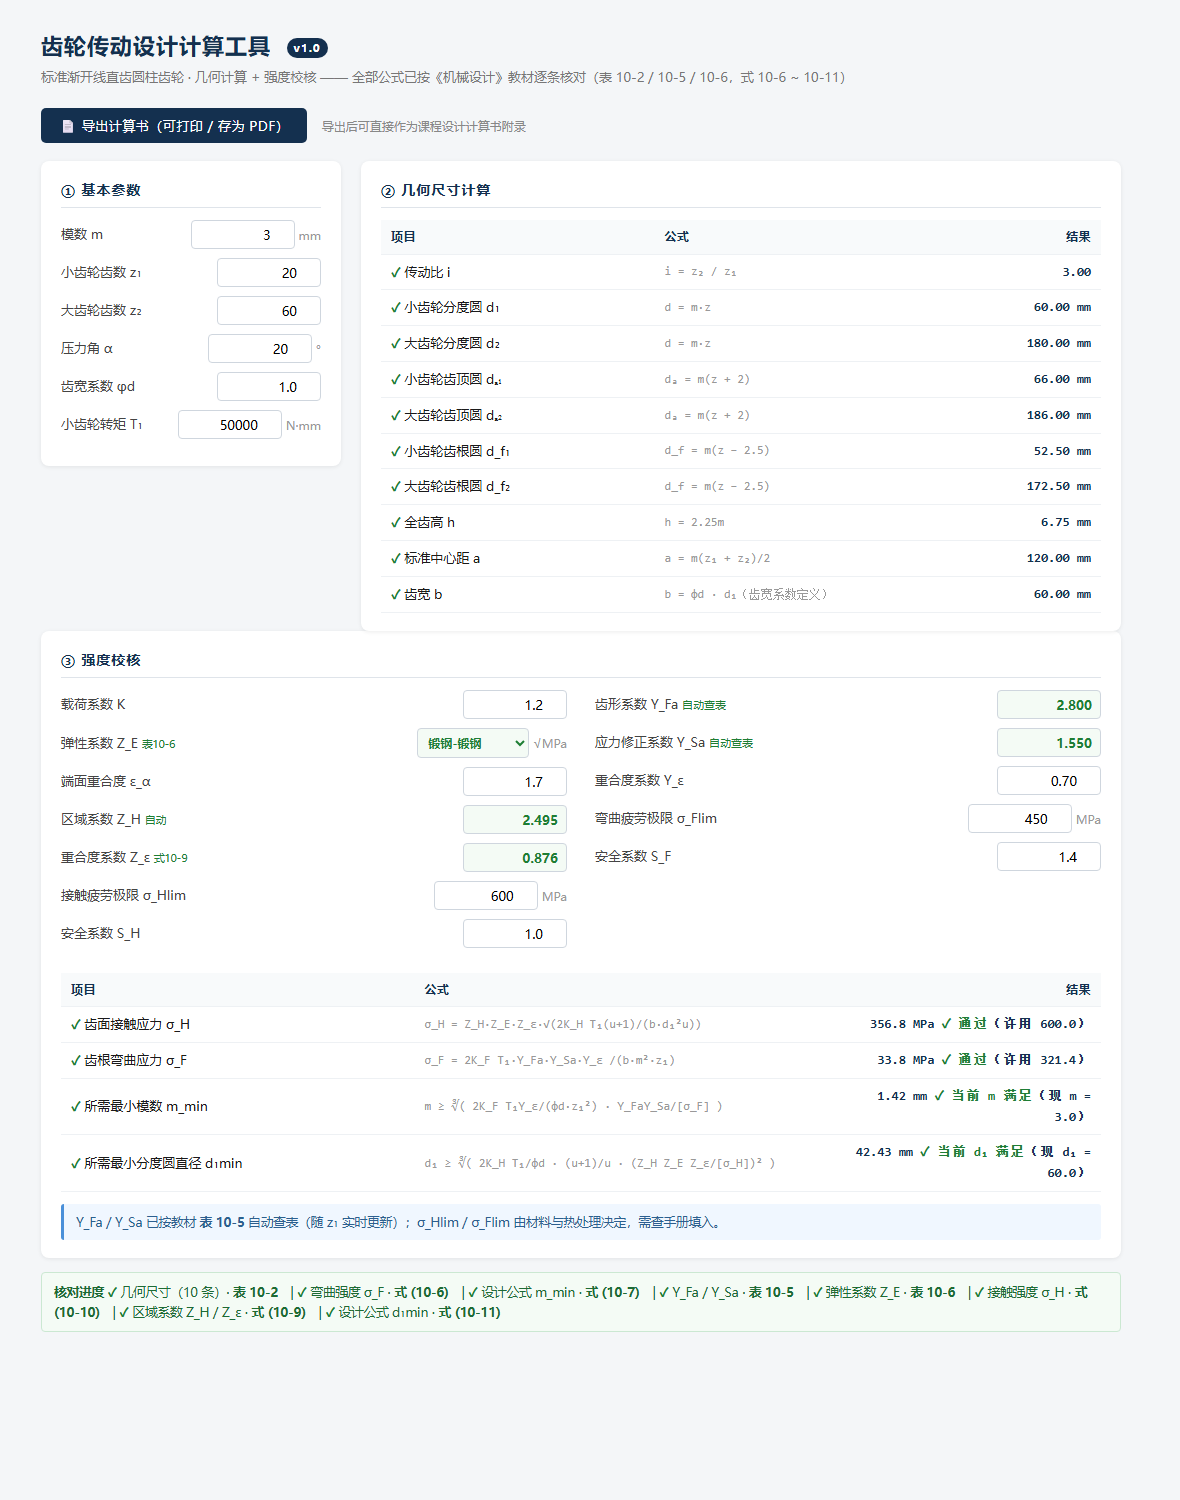
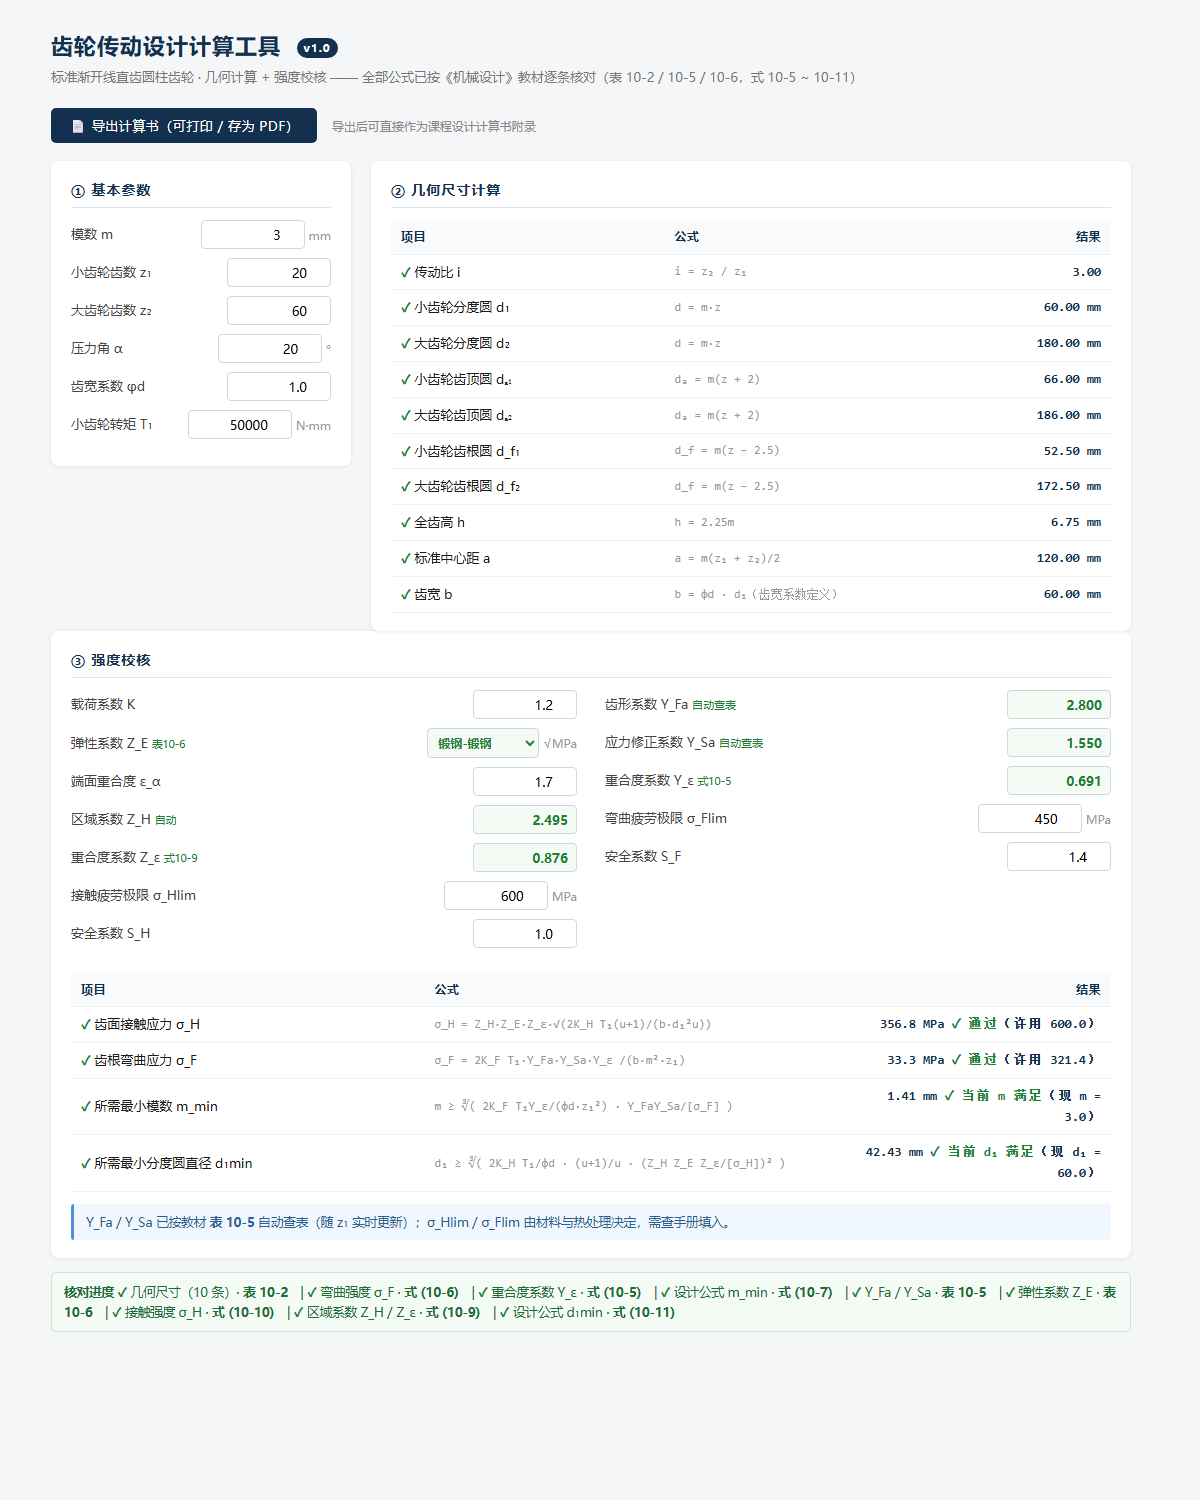
Y_ε 改为按式 (10-5) 自动计算，并修正 σ_F 公式编号
- Y_ε 由手工填入改为按教材式 (10-5) Y_ε = 0.25 + 0.75/ε_α 自动计算
  （依据《机械设计》第 11 版 P212，已逐条核对）
- 界面「核对进度」与导出计算书的依据清单：σ_F 编号修正为式 (10-6)
  （式 (10-4) 为基本式，式 (10-6) 为代入 Ft、m 后的形式，即本工具实现式）
- 默认参数下结果随之更新：σ_F 33.8→33.3 MPa、m_min 1.42→1.41 mm
  （σ_H 356.8 MPa、d₁min 42.43 mm 不受影响，二者用 Z_ε）
- 已知限制更新：Y_ε 已不再是限制，改为如实说明 ε_α 需手工填入

diff --git a/index.html b/index.html
@@ -47,7 +47,7 @@
 <div class="wrap">
 
   <h1>齿轮传动设计计算工具 <span class="badge">v1.0</span></h1>
-  <div class="sub">标准渐开线直齿圆柱齿轮 · 几何计算 + 强度校核 —— 全部公式已按《机械设计》教材逐条核对（表 10-2 / 10-5 / 10-6，式 10-6 ~ 10-11）</div>
+  <div class="sub">标准渐开线直齿圆柱齿轮 · 几何计算 + 强度校核 —— 全部公式已按《机械设计》教材逐条核对（表 10-2 / 10-5 / 10-6，式 10-5 ~ 10-11）</div>
   <div style="margin: 12px 0 18px;">
     <button onclick="exportReport()" style="cursor:pointer;background:#14304f;color:#fff;border:none;
       padding:9px 18px;border-radius:5px;font-size:13px;font-family:inherit;letter-spacing:.5px;">
@@ -103,7 +103,7 @@
       <div>
         <div class="field"><label>齿形系数 Y_Fa <span style="font-size:11px;color:#1e7e34;">自动查表</span></label><span><input id="YFa" type="text" value="2.800" readonly style="background:#f4fbf5;color:#1e7e34;font-weight:600;"></span></div>
         <div class="field"><label>应力修正系数 Y_Sa <span style="font-size:11px;color:#1e7e34;">自动查表</span></label><span><input id="YSa" type="text" value="1.550" readonly style="background:#f4fbf5;color:#1e7e34;font-weight:600;"></span></div>
-        <div class="field"><label>重合度系数 Y_ε</label><span><input id="YEps" type="number" value="0.70" step="0.01"></span></div>
+        <div class="field"><label>重合度系数 Y_ε <span style="font-size:10.5px;color:#1e7e34;">式10-5</span></label><span><input id="YEps" type="text" value="0.691" readonly style="background:#f4fbf5;color:#1e7e34;font-weight:600;"></span></div>
         <div class="field"><label>弯曲疲劳极限 σ_Flim</label><span><input id="sFlim" type="number" value="450" step="10"><span class="unit">MPa</span></span></div>
         <div class="field"><label>安全系数 S_F</label><span><input id="SF" type="number" value="1.4" step="0.05"></span></div>
       </div>
@@ -121,6 +121,7 @@
     <b>核对进度</b>
     <span class="ok">✓</span> 几何尺寸（10 条）· <b>表 10-2</b>　|
     <span class="ok">✓</span> 弯曲强度 σ_F · <b>式 (10-6)</b>　|
+    <span class="ok">✓</span> 重合度系数 Y_ε · <b>式 (10-5)</b>　|
     <span class="ok">✓</span> 设计公式 m_min · <b>式 (10-7)</b>　|
     <span class="ok">✓</span> Y_Fa / Y_Sa · <b>表 10-5</b>　|
     <span class="ok">✓</span> 弹性系数 Z_E · <b>表 10-6</b>　|
@@ -225,6 +226,7 @@ function exportReport() {
     ・表 10-2（渐开线标准直齿圆柱齿轮几何尺寸计算公式）<br>
     ・表 10-5（齿形系数 Y_Fa、应力修正系数 Y_Sa）<br>
     ・表 10-6（弹性影响系数 Z_E）<br>
+    ・式 (10-5)（弯曲强度重合度系数 Y_ε = 0.25 + 0.75/ε_α）<br>
     ・式 (10-6)（齿根弯曲疲劳强度校核）　・式 (10-7)（弯曲强度设计公式）<br>
     ・式 (10-9)（重合度系数 Z_ε = √((4−ε_α)/3)）<br>
     ・式 (10-10)（齿面接触疲劳强度校核）　・式 (10-11)（接触强度设计公式）<br>
@@ -295,7 +297,9 @@ function calc() {
   const ZEps = (epsA > 0 && epsA < 4) ? Math.sqrt((4 - epsA) / 3) : NaN;
   document.getElementById('ZH').value   = isNaN(ZH)   ? '—' : ZH.toFixed(3);
   document.getElementById('ZEps').value = isNaN(ZEps) ? '—' : ZEps.toFixed(3);
-  const YEps = num('YEps');
+  // [已核对 式(10-5)，教材 P212] 弯曲强度重合度系数 Y_ε = 0.25 + 0.75/ε_α
+  const YEps = (epsA > 0) ? (0.25 + 0.75 / epsA) : NaN;
+  document.getElementById('YEps').value = isNaN(YEps) ? '—' : YEps.toFixed(3);
   const ys  = lookupYS(z1);                 // 查 表 10-5
   const YFa = ys ? ys[0] : 0;
   const YSa = ys ? ys[1] : 0;

diff --git a/README.en.md b/README.en.md
@@ -28,7 +28,7 @@ Gear ratio `i`, pitch diameters `d₁`/`d₂`, addendum circles `dₐ`, dedendum
 | Elasticity factor `Z_E` | **Table 10-6**, dropdown (steel-steel and other pairings) |
 | Zone factor `Z_H` | **Eq. (10-9)**, computes `√(2/(cosα·sinα))` |
 | Contact ratio factor `Z_ε` | **Eq. (10-9)**, computes `√((4−ε_α)/3)` |
-| Bending contact ratio factor `Y_ε` | **Manual input** — the formula's textbook source is not yet verified, so it is deliberately not automated |
+| Bending contact ratio factor `Y_ε` | **Eq. (10-5)**, computes `0.25 + 0.75/ε_α` |
 | Contact stress `σ_H` | **Eq. (10-10)** |
 | Bending stress `σ_F` | **Eq. (10-6)** |
 | Minimum required module `m_min` | **Eq. (10-7)**, solved backwards |
@@ -43,6 +43,7 @@ A permanent checklist at the bottom of the UI maps every computed quantity to it
 ```
 ✓ Geometry (10 items)         · Table 10-2
 ✓ Bending stress σ_F          · Eq. (10-6)
+✓ Contact ratio factor Y_ε    · Eq. (10-5)
 ✓ Design formula m_min        · Eq. (10-7)
 ✓ Y_Fa / Y_Sa                 · Table 10-5
 ✓ Elasticity factor Z_E       · Table 10-6
@@ -56,17 +57,17 @@ A permanent checklist at the bottom of the UI maps every computed quantity to it
 - ***Machine Design* (机械设计), 11th ed.** — compiled by the Teaching and Research Section of Machine Theory and Machine Elements, Northwestern Polytechnical University; edited by Pu Lianggui, Chen Guoding, Wu Liyan and Ning Fangli. Higher Education Press, 2024.
   Every "Eq. (10-x)" and "Table 10-x" label in the UI refers to **Chapter 10, Gear Drives** of this book.
 - ***Theory of Machines and Mechanisms* (机械原理), 9th ed.** — compiled by the Teaching and Research Section of Machine Theory and Machine Elements, Northwestern Polytechnical University; edited by Sun Huan and Ge Wenjie. Higher Education Press, 2021.
-  Reference for gear meshing parameters such as the transverse contact ratio `ε_α`, which this tool takes as a manual input rather than computing.
+  Reference for gear meshing parameters such as the transverse contact ratio `ε_α`, which this tool takes as a manual input rather than computing. Both `Z_ε` (Eq. 10-9) and `Y_ε` (Eq. 10-5) are then derived from it.
 
 Both books are *compiled* by Northwestern Polytechnical University — hence the colloquial name "the NPU edition" — but *published* by Higher Education Press.
 
-At the default parameters (m=3, z₁=20, z₂=60, α=20°, φd=1.0, T₁=50000 N·mm), the tool's output matches hand calculation:
+At the default parameters (m=3, z₁=20, z₂=60, α=20°, φd=1.0, T₁=50000 N·mm, ε_α=1.7), the tool's output matches hand calculation:
 
 | Result | Value |
 |---|---|
 | Contact stress σ_H | 356.8 MPa |
-| Bending stress σ_F | 33.8 MPa |
-| Minimum module m_min | 1.42 mm |
+| Bending stress σ_F | 33.3 MPa |
+| Minimum module m_min | 1.41 mm |
 | Minimum pitch diameter d₁min | 42.43 mm |
 
 ## Usage
@@ -88,7 +89,7 @@ This disclosure is not a disclaimer. It is there to make one thing clear: I can 
 
 ## Known limitations
 
-- **The bending contact ratio factor `Y_ε` is still entered by hand.** The relevant formula is on a page of the textbook I have not yet verified, and I would rather leave a gap than ship a formula I have not confirmed. (The contact-side factor `Z_ε` *is* computed automatically, via Eq. (10-9).)
+- **The transverse contact ratio `ε_α` is a manual input** (default 1.7); the tool does not compute it. `ε_α` follows from addendum-circle pressure angles and other meshing parameters, which belong to *Theory of Machines and Mechanisms* — this tool implements only the geometry and strength formulas of Chapter 10 of *Machine Design*. Once entered, `Z_ε` (Eq. 10-9) and `Y_ε` (Eq. 10-5) are derived automatically.
 - Supports **standard involute spur gears only** — no helical, profile-shifted, or bevel gears.
 - `σ_Hlim` / `σ_Flim` (contact and bending fatigue limits) must be looked up in a materials handbook and entered manually.
 

diff --git a/README.md b/README.md
@@ -28,7 +28,7 @@
 | 弹性影响系数 `Z_E` | **表 10-6** 下拉选择（锻钢-锻钢等配对） |
 | 区域系数 `Z_H` | **式 (10-9)** 自动计算 `√(2/(cosα·sinα))` |
 | 重合度系数 `Z_ε` | **式 (10-9)** 自动计算 `√((4−ε_α)/3)` |
-| 弯曲强度重合度系数 `Y_ε` | **手工填入**（该公式的教材出处尚未核对到，暂不自动计算） |
+| 弯曲强度重合度系数 `Y_ε` | **式 (10-5)** 自动计算 `0.25 + 0.75/ε_α` |
 | 齿面接触应力 `σ_H` | **式 (10-10)** |
 | 齿根弯曲应力 `σ_F` | **式 (10-6)** |
 | 所需最小模数 `m_min` | **式 (10-7)** 反算 |
@@ -43,6 +43,7 @@
 ```
 ✓ 几何尺寸（10 条）· 表 10-2
 ✓ 弯曲强度 σ_F · 式 (10-6)
+✓ 重合度系数 Y_ε · 式 (10-5)
 ✓ 设计公式 m_min · 式 (10-7)
 ✓ Y_Fa / Y_Sa · 表 10-5
 ✓ 弹性系数 Z_E · 表 10-6
@@ -60,13 +61,13 @@
 
 两本书的编著单位都是西北工业大学，这也是「西工大版」这一俗称的由来——但出版方是高等教育出版社。
 
-默认参数（m=3, z₁=20, z₂=60, α=20°, φd=1.0, T₁=50000 N·mm）下，工具输出与手工复算一致：
+默认参数（m=3, z₁=20, z₂=60, α=20°, φd=1.0, T₁=50000 N·mm, ε_α=1.7）下，工具输出与手工复算一致：
 
 | 结果 | 数值 |
 |---|---|
 | 齿面接触应力 σ_H | 356.8 MPa |
-| 齿根弯曲应力 σ_F | 33.8 MPa |
-| 所需最小模数 m_min | 1.42 mm |
+| 齿根弯曲应力 σ_F | 33.3 MPa |
+| 所需最小模数 m_min | 1.41 mm |
 | 所需最小分度圆直径 d₁min | 42.43 mm |
 
 ## 使用方法
@@ -88,7 +89,7 @@
 
 ## 已知限制
 
-- **弯曲强度重合度系数 `Y_ε` 目前仍需手工填入**，未做自动计算——所用教材对应页面的公式尚未核对到，宁可不做也不写一个自己没验证过的公式。（接触强度的重合度系数 `Z_ε` 已按式 (10-9) 自动计算。）
+- **端面重合度 `ε_α` 需手工填入**（默认 1.7），工具不做自动计算——`ε_α` 由齿顶圆压力角等啮合参数导出，属《机械原理》内容；本工具只实现《机械设计》第 10 章的几何与强度计算。填入后 `Z_ε`（式 10-9）与 `Y_ε`（式 10-5）会自动算出。
 - 目前仅支持**标准渐开线直齿圆柱齿轮**，不含斜齿轮、变位齿轮、锥齿轮。
 - `σ_Hlim` / `σ_Flim`（接触/弯曲疲劳极限）需按材料与热处理方式查手册后手工填入。
 
